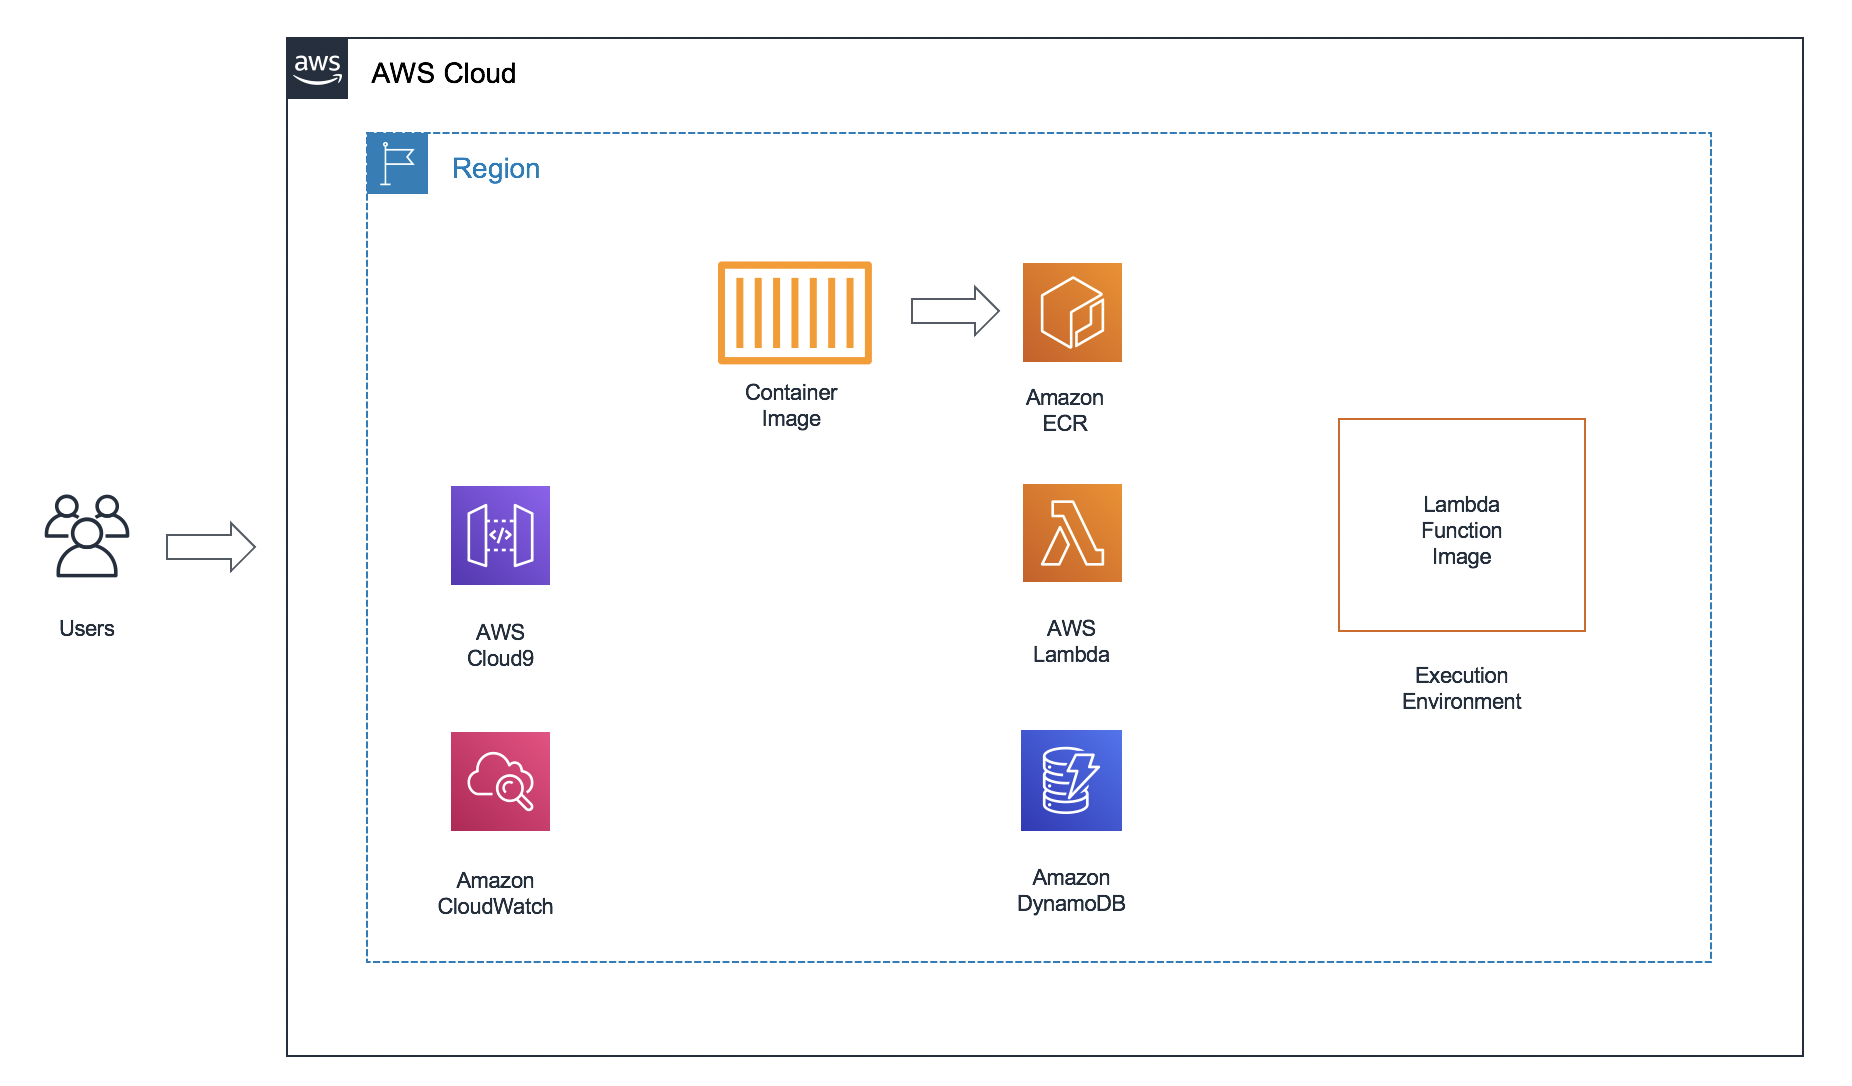
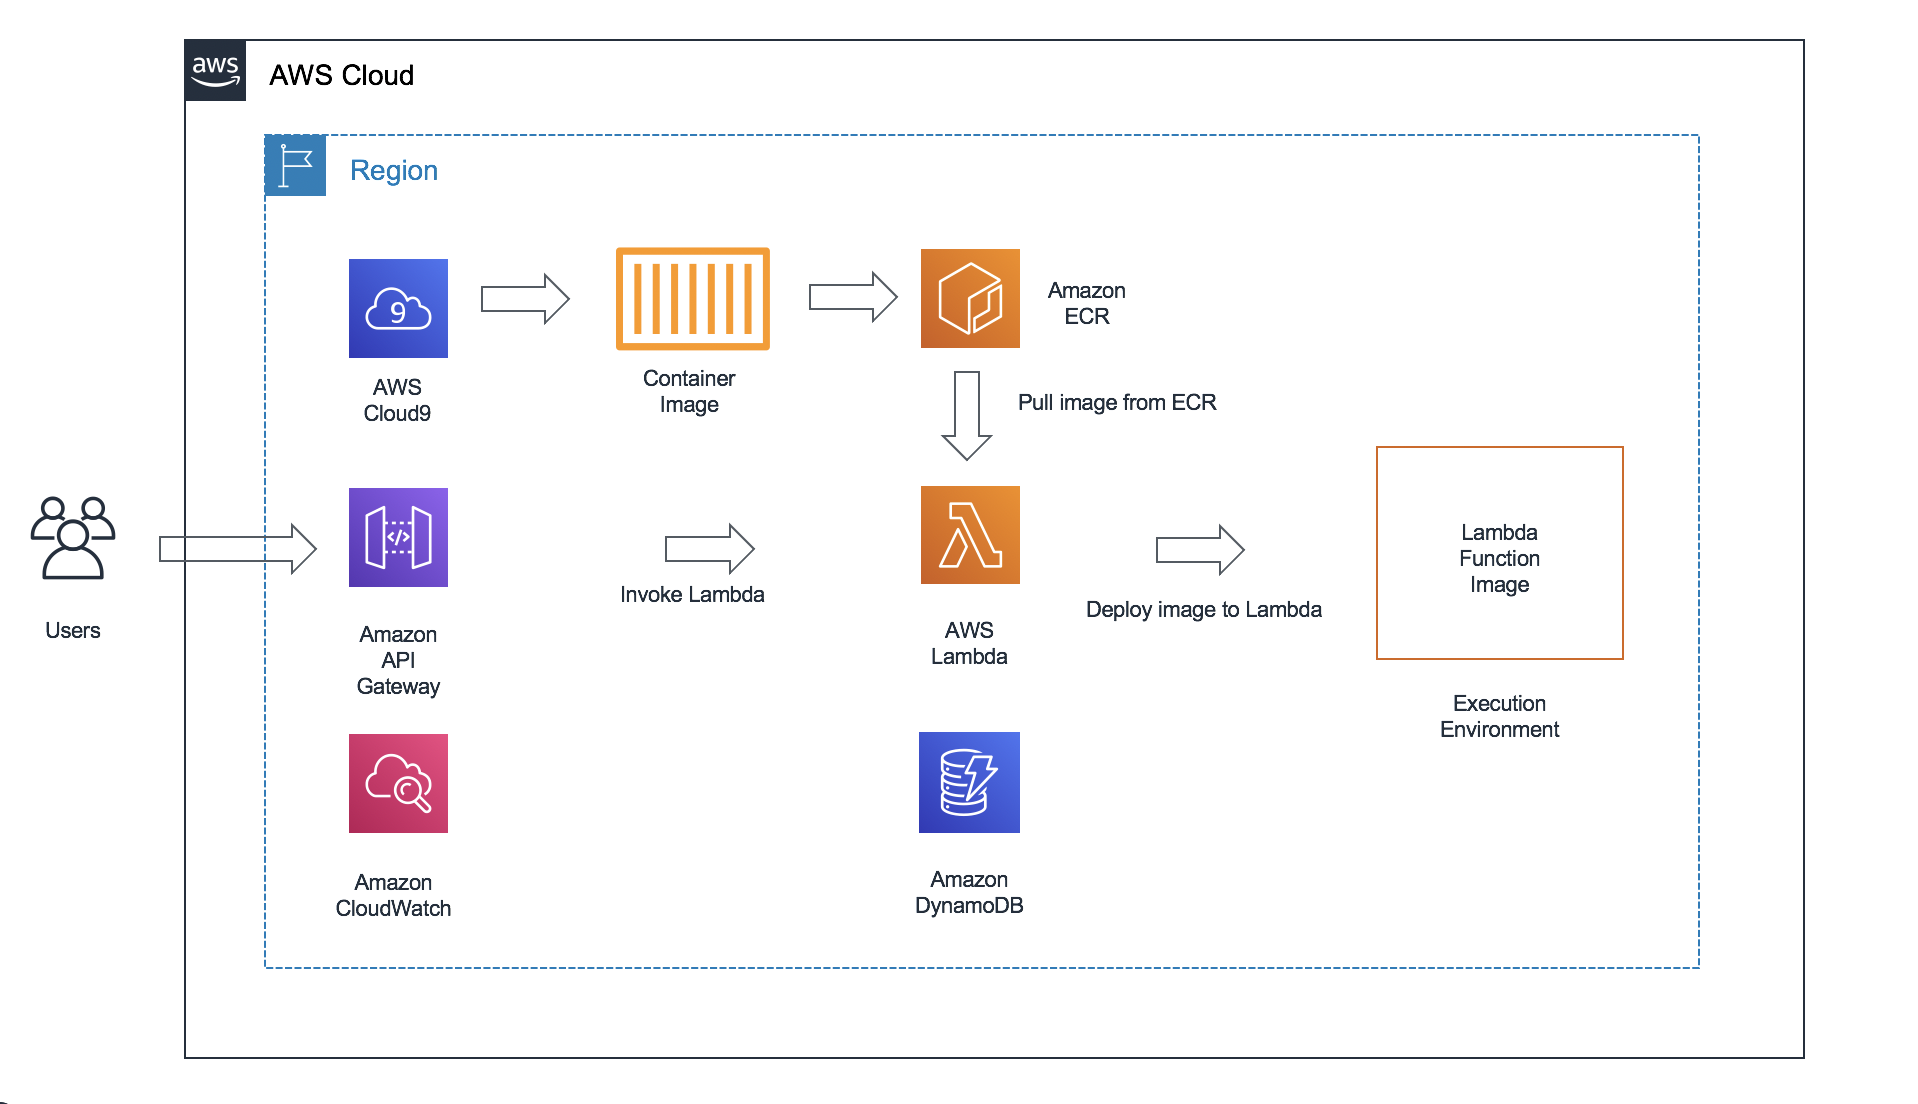
added new architecture diagram

diff --git a/README.md b/README.md
@@ -25,7 +25,7 @@ In order to implement the instructions laid out in this post, you will need the 
  - A [GitHub account](https://help.github.com/en/github/getting-started-with-github/signing-up-for-a-new-github-account)
 
 ## Architecture
-<img width="1042" alt="architecture-screenshot" src="images/Architecture-2.png">
+<img width="1042" alt="architecture-screenshot" src="images/Architecture.png">
 
 Here are the steps we’ll be following to implement the above architecture:
 
